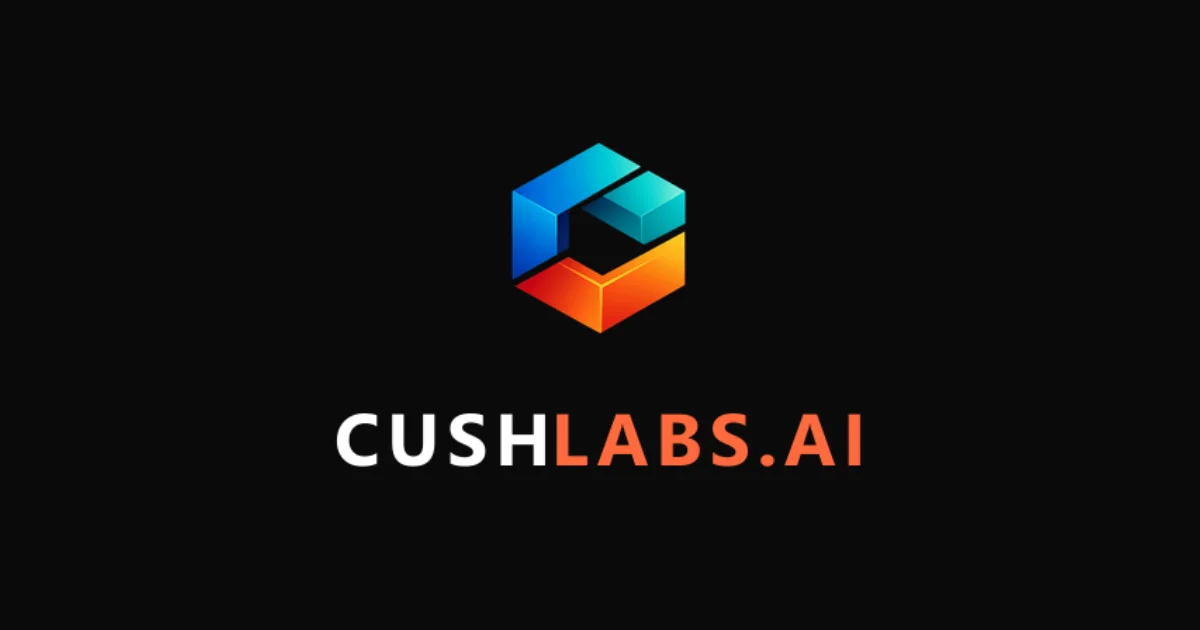
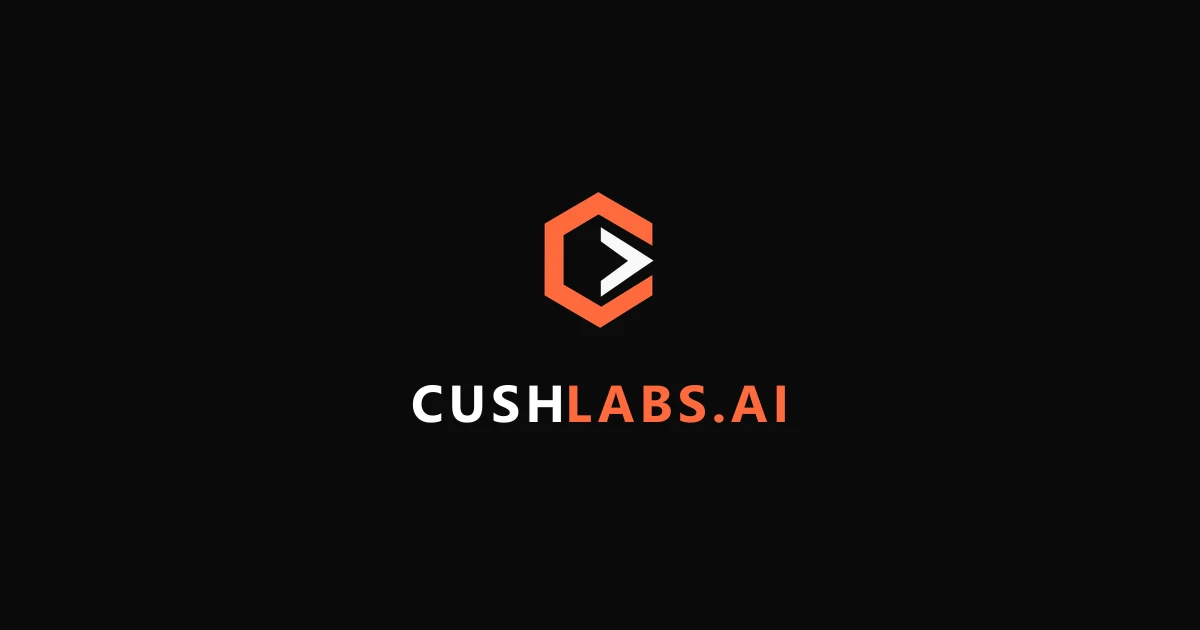
fix(brand): regenerate the OG webp - the email signature was serving the old mark (#239)
docs/email-signature.html embeds
https://cushlabs.ai/images/og/cushlabs-og.webp at 160x84. That file was
the April card carrying the retired 3D hexagon, and it was live and
being served, so every email sent since the rebrand has shown the old
logo. Regenerated from the new cushlabs-og.png: 8,266 bytes, zero
blue/teal pixels, mark verified as the chevron.

Deliberately reused the same filename, which is the opposite of the rule
added in #238. That rule exists because browsers cache logo URLs; here
the consumer is a Gmail signature already pasted outside this repo and
pointing at that exact URL, so renaming would break every signature
already in circulation. Stable URL, changed bytes, on purpose. Written
into the brand kit next to the naming rule so the two do not read as a
contradiction later.

og:image deliberately NOT switched to WebP. Facebook and LinkedIn
crawlers are unreliable with WebP og:image and can degrade to no preview,
and those are the primary channels - WhatsApp uses Meta's scraper too.
There is also no upside: og:image is fetched by crawlers, never by a
visitor, so it is not on any human's rendering path and shrinking it buys
no page speed. BaseLayout and LandingLayout keep pointing at the PNG.

Not committed: public/images/og/cushlabs-og-archive.webp, the renamed old
card. Leaving it untracked keeps the retired mark off a public URL while
preserving the local copy.

Changed region(s): [[0.2775, 0.6032, 0.74, 0.754], [0.4008, 0.2111, 0.5858, 0.5429]]

diff --git a/docs/BRAND-KIT.md b/docs/BRAND-KIT.md
@@ -118,22 +118,36 @@ softer contrast on mid-tone backgrounds and photo overlays.
 
 ### Files in this repo
 
-| File                                             | Size     | Use                                             |
-| ------------------------------------------------ | -------- | ----------------------------------------------- |
-| `public/images/logo/cushlabs-logo-on-light.webp` | 256²     | Header, footer, landing bar — **light theme**   |
-| `public/images/logo/cushlabs-logo-on-dark.webp`  | 256²     | Same surfaces — **dark theme**                  |
-| `public/images/logo/cushlabs-logo-on-light.png`  | 512²     | Light master for external use                   |
-| `public/images/logo/cushlabs-logo-on-dark.png`   | 512²     | Dark master for external use                    |
-| `public/favicon.ico`                             | 16/32/48 | Browser tabs, bookmarks                         |
-| `public/favicon-32x32.png`                       | 32²      | Modern browsers                                 |
-| `public/favicon-16x16.png`                       | 16²      | Small-tab fallback                              |
-| `public/apple-touch-icon.png`                    | 180²     | iOS home screen                                 |
-| `public/icon-512.png`                            | 512²     | PWA / Android                                   |
-| `public/images/og/cushlabs-og.png`               | 1200×630 | Social share card (mark + wordmark, near-black) |
+| File                                             | Size     | Use                                                                 |
+| ------------------------------------------------ | -------- | ------------------------------------------------------------------- |
+| `public/images/logo/cushlabs-logo-on-light.webp` | 256²     | Header, footer, landing bar — **light theme**                       |
+| `public/images/logo/cushlabs-logo-on-dark.webp`  | 256²     | Same surfaces — **dark theme**                                      |
+| `public/images/logo/cushlabs-logo-on-light.png`  | 512²     | Light master for external use                                       |
+| `public/images/logo/cushlabs-logo-on-dark.png`   | 512²     | Dark master for external use                                        |
+| `public/favicon.ico`                             | 16/32/48 | Browser tabs, bookmarks                                             |
+| `public/favicon-32x32.png`                       | 32²      | Modern browsers                                                     |
+| `public/favicon-16x16.png`                       | 16²      | Small-tab fallback                                                  |
+| `public/apple-touch-icon.png`                    | 180²     | iOS home screen                                                     |
+| `public/icon-512.png`                            | 512²     | PWA / Android                                                       |
+| `public/images/og/cushlabs-og.png`               | 1200×630 | Social share card — **the `og:image`. Keep it PNG.**                |
+| `public/images/og/cushlabs-og.webp`              | 1200×630 | Same art, for the **email signature** (`docs/email-signature.html`) |
 
 All logo files carry true alpha — the counter-space inside the C is transparent so the background
 shows through. **Favicons and touch icons are trimmed to the mark and re-padded ~6%**, so the glyph
 fills the tab rather than floating in the master's margin.
+
+> **The `og:image` stays PNG. Do not convert it to WebP.** Facebook and LinkedIn crawlers are
+> unreliable with WebP `og:image` and can fall back to no preview at all — those two are the primary
+> distribution channels, and WhatsApp uses Meta's scraper. There is also nothing to gain: the
+> `og:image` is fetched by crawlers, never by a visitor, so it is not on any human's rendering path
+> and shrinking it buys no page speed. All risk, no upside.
+>
+> **`cushlabs-og.webp` is the one deliberate same-filename overwrite in this kit.** It is consumed by
+> `docs/email-signature.html`, which is already pasted into a live Gmail signature pointing at that
+> exact URL. Renaming it would break the signature in every email already sent and every client that
+> has it saved. The logo naming rule above exists because browsers cache aggressively; here the
+> consumer is outside the repo and cannot be updated, so the URL must stay stable and the bytes
+> change instead. Regenerate it from `cushlabs-og.png` whenever the card changes.
 
 **Naming convention:** files are named for the background they go on, not the chevron color.
 
